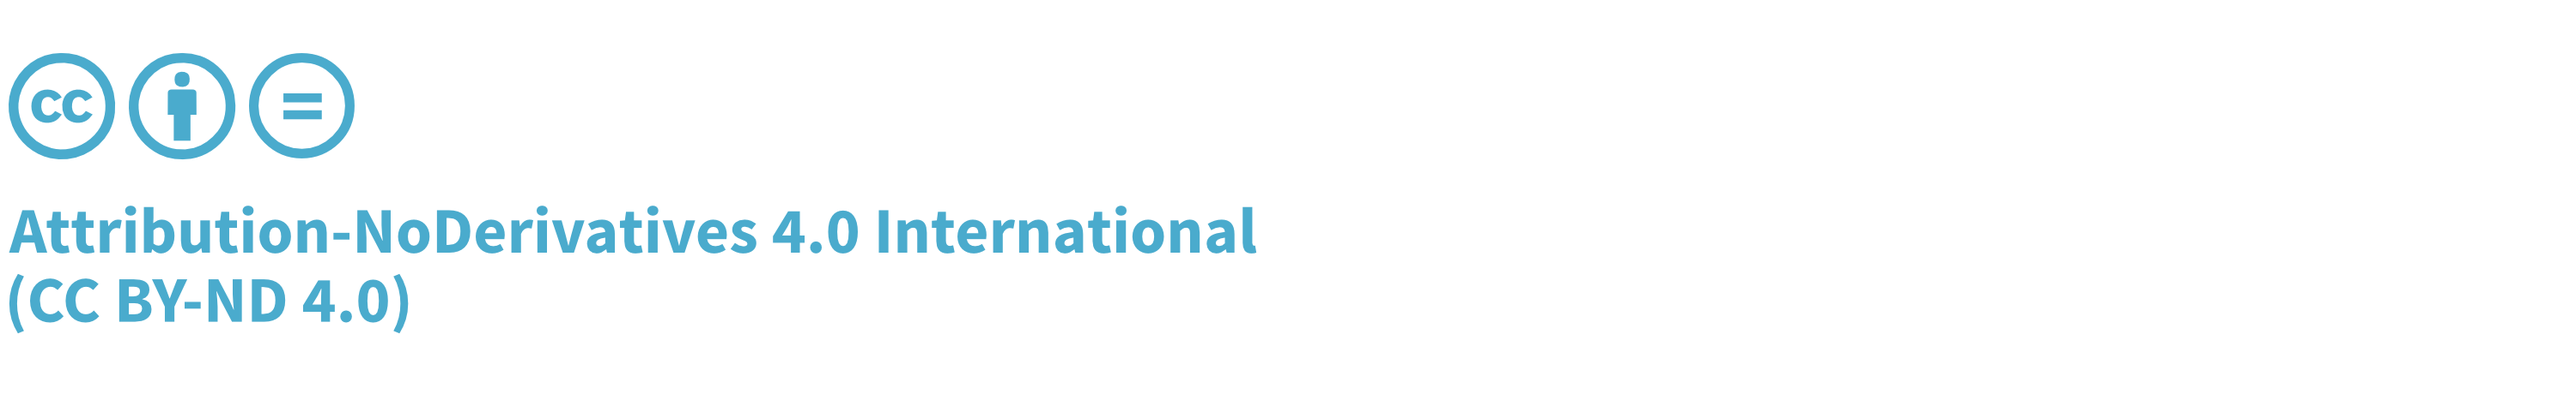
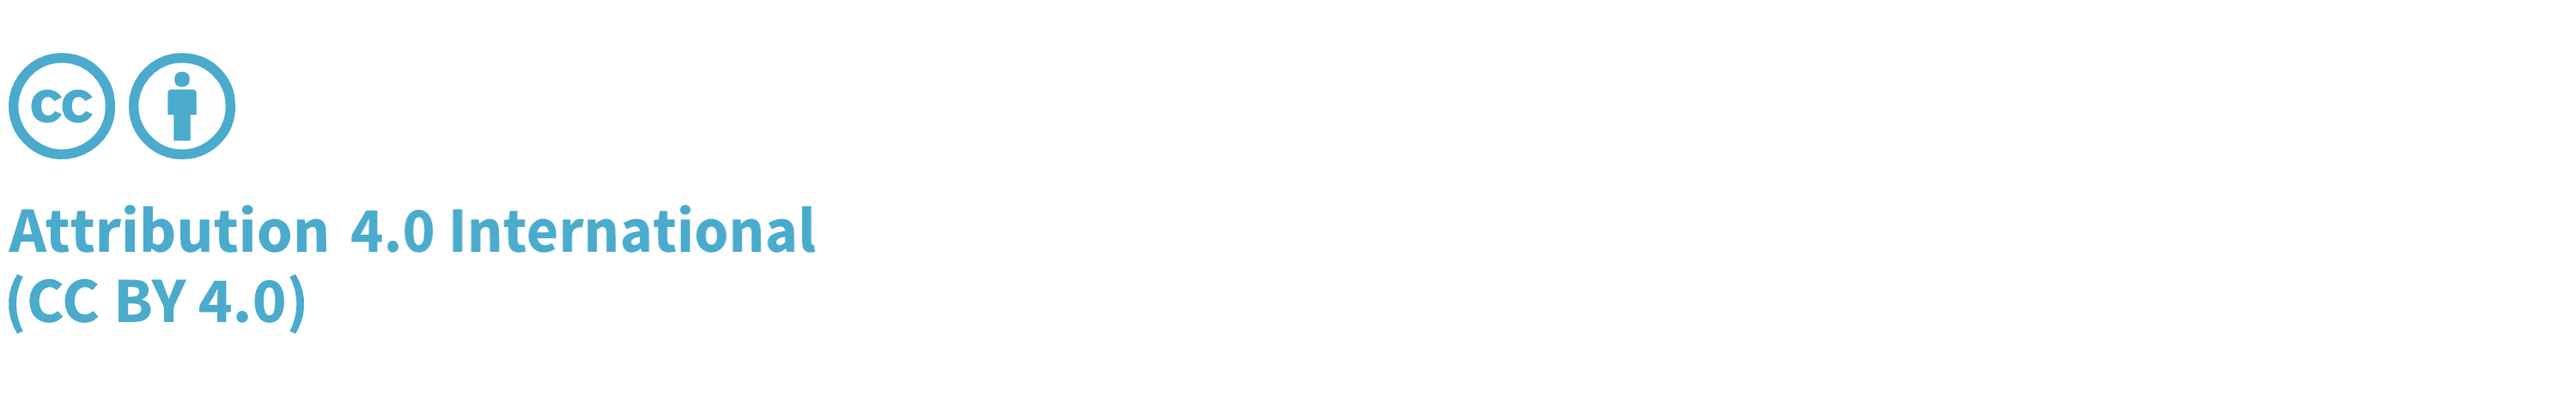
Updating license

diff --git a/SBOM/en/0x01-Frontispiece.md b/SBOM/en/0x01-Frontispiece.md
@@ -10,9 +10,9 @@ TODO
 
 Copyright © 2022 The OWASP Foundation. 
 
-This document is released under the [Creative Commons Attribution-NoDerivatives 4.0 International](https://creativecommons.org/licenses/by-nd/4.0/). For any reuse or distribution, you must make clear to others the license terms of this work.
+This document is released under the [Creative Commons Attribution 4.0 International](https://creativecommons.org/licenses/by/4.0/). For any reuse or distribution, you must make clear to others the license terms of this work.
 
-Version 0.1 SNAPSHOT, 28 July 2022
+Version 0.1 SNAPSHOT, 12 August 2022
 
 <div style="page-break-after: always; visibility: hidden">
 \newpage
